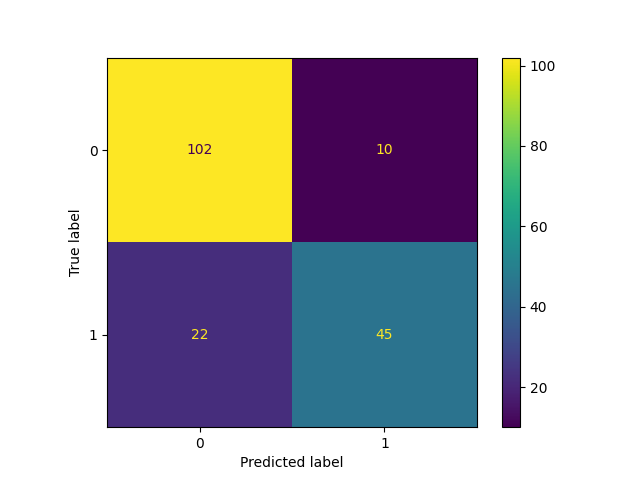
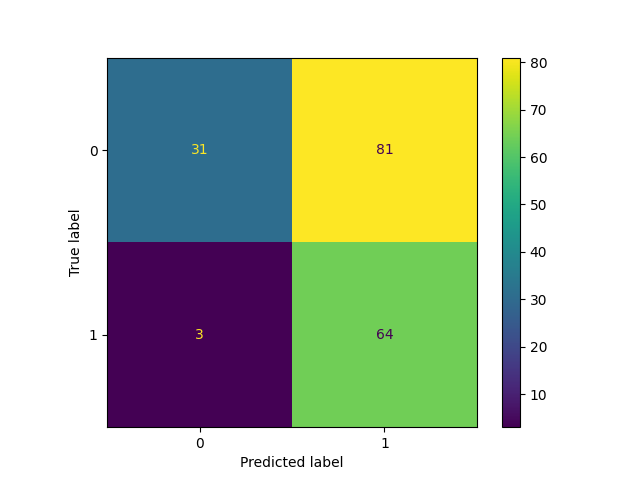
adicionados mais parametros

diff --git a/templates/home.html b/templates/home.html
@@ -81,8 +81,16 @@ html, body {
                     </select>
                 </div>
                 <div class="col-auto">
-                    <label for="parametros" class="form-label">Alterar os parâmetros (0-10):</label>
-                    <input type="number" id="parametros" name="parametros" min="0" max="10" class="form-control">
+                    <label for="parametro1" class="form-label">Parâmetro principal (2-100):</label>
+                    <input type="number" id="parametro1" name="parametro1" min="1" value="1" max="100" class="form-control">
+                </div>
+                <div class="col-auto">
+                    <label for="parametro2" class="form-label">Parâmetro secundário (2-10):</label>
+                    <input type="number" id="parametro2" name="parametro2" min="1" value="2" max="10" class="form-control">
+                </div>
+                <div class="col-auto">
+                    <label for="parametro3" class="form-label">Parâmetro terciário (2-100):</label>
+                    <input type="number" id="parametro3" name="parametro3" min="1"  value="2" max="100" class="form-control">
                 </div>
                 <div class="col-auto mt-4">
                     <br>
@@ -98,7 +106,7 @@ html, body {
                 <ul class="adjusted-list" style="font-size: larger;">
                     <li class="textos1">{{ size_str }}</li>
                     <li class="textos1">Classificador: {{ results.classif }}</li>
-                    <li class="textos1">Número do Parâmetro: {{ results.paramt }}</li>
+                    <li class="textos1">Número do Parâmetro: {{ results.paramt1 }}</li>
                     <br>
                     <li>Tipo de Média: {{ results.media }}</li>
                     <li class="fw-bold">Acurácia: {{ results.acuracia }}</li>

diff --git a/machinelearn.py b/machinelearn.py
@@ -17,7 +17,7 @@ from sklearn.neighbors import KNeighborsClassifier
 from sklearn.ensemble import GradientBoostingClassifier
 
 matplotlib.use('agg')
-def treinamentoteste(classifier_type, max_depth):
+def treinamentoteste(classifier_type, param1, param2, param3):
 
     url = 'https://learnenough.s3.amazonaws.com/titanic.csv'
     titanic = pd.read_csv(url)
@@ -35,6 +35,10 @@ def treinamentoteste(classifier_type, max_depth):
     titanic['Sex'] = titanic["Sex"].map(sexo)
 
     #print(titanic.head(6))
+    print(classifier_type)
+    print(param1)
+    print(param2)
+    print(param3)
 
     X = titanic.drop("Survived", axis=1)
     y = titanic["Survived"]
@@ -45,7 +49,7 @@ def treinamentoteste(classifier_type, max_depth):
     X_train, X_test, y_train, y_test = train_test_split(X, y, random_state=1)
 
     if classifier_type == 'DT':
-        clf_dt = DecisionTreeClassifier(random_state=1, max_depth=max_depth)
+        clf_dt = DecisionTreeClassifier(min_samples_leaf=param1, max_depth=param2, min_samples_split=param3)
         clf_dt.fit(X_train, y_train)
         acc_dt = clf_dt.score(X_test, y_test)
         y_pred = clf_dt.predict(X_test)
@@ -63,9 +67,9 @@ def treinamentoteste(classifier_type, max_depth):
 
         results = {
             "tamanho:": size_str,
-            "classif": "Decision Tree(Param: max_depth)",
+            "classif": "Decision Tree",
             "media": "macro",
-            "paramt": max_depth,
+            "paramt1": param1,
             "acuracia": acuracia,
             "precisao": precisao,
             "recall": recall,
@@ -75,7 +79,7 @@ def treinamentoteste(classifier_type, max_depth):
         return results
 
     elif classifier_type == 'RF': 
-        clf_rfc = RandomForestClassifier(max_depth=max_depth, random_state=0)
+        clf_rfc = RandomForestClassifier(max_depth=param1, n_estimators=param2, min_samples_split=param3)
         clf_rfc.fit(X_train, y_train)
         acc_rfc = clf_rfc.score(X_test, y_test)
         y_pred = clf_rfc.predict(X_test)
@@ -93,9 +97,9 @@ def treinamentoteste(classifier_type, max_depth):
 
         results = {
             "tamanho:": size_str,
-            "classif": "Random Forest(Param: max_depth)",
+            "classif": "Random Forest",
             "media": "macro",
-            "paramt": max_depth,
+            "paramt1": param1,
             "acuracia": acuracia,
             "precisao": precisao,
             "recall": recall,
@@ -105,7 +109,7 @@ def treinamentoteste(classifier_type, max_depth):
         return results
 
     elif classifier_type == 'SVC':
-        clf_svc = make_pipeline(StandardScaler(), SVC(C=max_depth, gamma='auto'))
+        clf_svc = make_pipeline(StandardScaler(), SVC(C=param1, gamma=param3, degree=param2))
         clf_svc.fit(X_train, y_train)
         acc_svc = clf_svc.score(X_test, y_test)
         y_pred = clf_svc.predict(X_test)
@@ -124,9 +128,9 @@ def treinamentoteste(classifier_type, max_depth):
 
         results = {
             "tamanho:": size_str,
-            "classif": "Support Vector Classifier(Param: C)",
+            "classif": "Support Vector Classifier",
             "media": "macro",
-            "paramt": max_depth,
+            "paramt1": param1,
             "acuracia": acuracia,
             "precisao": precisao,
             "recall": recall,
@@ -136,7 +140,7 @@ def treinamentoteste(classifier_type, max_depth):
         return results
 
     elif classifier_type == 'KNN':
-        clf_knn = KNeighborsClassifier(n_neighbors=max_depth)
+        clf_knn = KNeighborsClassifier(n_neighbors=param1, leaf_size=param3, n_jobs=param2)
         clf_knn.fit(X_train, y_train)
         acc_knn = clf_knn.score(X_test, y_test)
         y_pred = clf_knn.predict(X_test)
@@ -155,9 +159,9 @@ def treinamentoteste(classifier_type, max_depth):
 
         results = {
             "tamanho:": size_str,
-            "classif": "K-Nearest Neighbors(Param: n_neighbors)",
+            "classif": "K-Nearest Neighbors",
             "media": "macro",
-            "paramt": max_depth,
+            "paramt1": param1,
             "acuracia": acuracia,
             "precisao": precisao,
             "recall": recall,
@@ -167,7 +171,7 @@ def treinamentoteste(classifier_type, max_depth):
         return results
 
     elif classifier_type == 'GBM': 
-        clf_gbm = GradientBoostingClassifier(learning_rate=max_depth, n_estimators=100) 
+        clf_gbm = GradientBoostingClassifier(learning_rate=param1, max_depth=param2, n_estimators=param3) 
         clf_gbm.fit(X_train, y_train)
         acc_gbm = clf_gbm.score(X_test, y_test)
         y_pred = clf_gbm.predict(X_test)
@@ -185,9 +189,9 @@ def treinamentoteste(classifier_type, max_depth):
 
         results = {
             "tamanho:": size_str,
-            "classif": "Gradient Boosting Classifier(Param: learning_rate)",
+            "classif": "Gradient Boosting Classifier",
             "media": "macro",
-            "paramt": max_depth,
+            "paramt1": param1,
             "acuracia": acuracia,
             "precisao": precisao,
             "recall": recall,

diff --git a/main.py b/main.py
@@ -13,18 +13,20 @@ def homepage():
         
         if 'classificador' in request.form:
             classificador = request.form['classificador'] 
-            max_depth = int(request.form.get('parametros', 0))
+            param1 = int(request.form.get('parametro1', 1))
+            param2 = int(request.form.get('parametro2', 2)) if request.form.get('parametro2') else 2
+            param3 = int(request.form.get('parametro3', 2)) if request.form.get('parametro3') else 2
 
             if classificador == 'KNN':
-                results = ml.treinamentoteste('KNN', max_depth)
+                results = ml.treinamentoteste('KNN', param1, param2, param3)
             elif classificador == 'SVC':
-                results = ml.treinamentoteste('SVC', max_depth)
+                results = ml.treinamentoteste('SVC', param1, param2, param3)
             elif classificador == 'DT':
-                results = ml.treinamentoteste('DT', max_depth)
+                results = ml.treinamentoteste('DT', param1, param2, param3)
             elif classificador == 'RF':
-                results = ml.treinamentoteste('RF', max_depth)
+                results = ml.treinamentoteste('RF', param1, param2, param3)
             elif classificador == 'GBM':
-                results = ml.treinamentoteste('GBM', max_depth)
+                results = ml.treinamentoteste('GBM', param1, param2, param3)
             else:
                 results = {}
             
